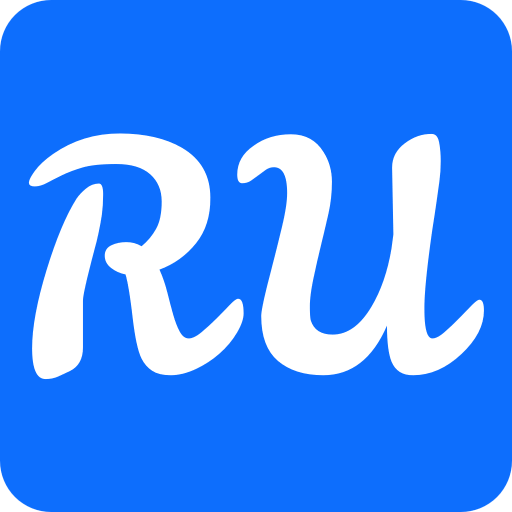
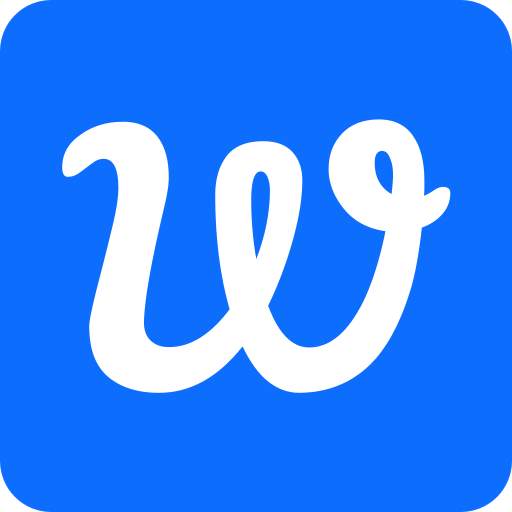
Renaming project. Uploading resources

Changed region(s): [[0.0625, 0.2188, 0.9688, 0.7812]]

diff --git a/web/index.html b/web/index.html
@@ -42,7 +42,7 @@
                     <img src="https://raw.githubusercontent.com/derekShaheen/SkRESTClient/main/web/resources/h512.png" class="img-thumbnail" alt="Logo">
                 </div>
                 <div class="col">
-                    <h5 class="--bs-secondary-color">REST for Unity</h5>
+                    <h5 class="--bs-secondary-color">Unity WickerREST</h5>
                     <h1 class="--bs-primary"></h1>
                 </div>
             </div>
@@ -157,7 +157,7 @@
 
             parameters.forEach(param => {
                 if (param.Name === 'response') {
-                    return; // Skip this iteration, don't create input for 'response'
+                    return; // Skip 'response' parameter
                 }
                 const inputGroup = document.createElement('div');
                 inputGroup.className = 'input-group mb-3';
@@ -170,8 +170,13 @@
                 input.type = 'text';
                 input.className = 'form-control';
                 input.placeholder = param.Name;
-                input.id = 'input-' + param.Name; // Ensure unique ID for each input
-                input.setAttribute('data-parameter', param.Name); // Use parameter name
+                input.id = 'input-' + param.Name;
+                input.setAttribute('data-parameter', param.Name);
+
+                // Set default value if available
+                if (param.DefaultValue !== null) {
+                    input.value = param.DefaultValue;
+                }
 
                 inputGroup.appendChild(inputLabel);
                 inputGroup.appendChild(input);
@@ -185,13 +190,11 @@
             submitButton.onclick = () => {
                 const inputs = modalBody.querySelectorAll('input');
                 const inputValues = Array.from(inputs).reduce((acc, input) => {
-                    // Use the parameter name stored in 'data-parameter' for each input
                     const paramName = input.getAttribute('data-parameter');
                     acc[paramName] = input.value;
                     return acc;
                 }, {});
 
-                // Close modal and send parameters correctly
                 const modalElement = document.getElementById('responseModal');
                 const modalInstance = bootstrap.Modal.getInstance(modalElement);
                 modalInstance.hide();
@@ -200,11 +203,11 @@
             };
             modalBody.appendChild(submitButton);
 
-            // Show modal using Bootstrap 5's JavaScript API
             const modalElement = document.getElementById('responseModal');
             const modalInstance = new bootstrap.Modal(modalElement);
             modalInstance.show();
         }
+
 
         function sendCommandWithParameters(command, parameters) {
             // Construct a query string where keys are parameter names

diff --git a/SkInterface.cs b/SkInterface.cs
@@ -14,8 +14,8 @@ namespace SkInterface
 {
     public static class BuildInfo
     {
-        public const string Name = "SkInterface";
-        public const string Description = "SkInterface";
+        public const string Name = "WickerREST";
+        public const string Description = "WickerREST";
         public const string Author = "Skrip";
         public const string Version = "1.0.0";
         public const string DownloadLink = "";
@@ -155,7 +155,11 @@ namespace SkInterface
                                 var commandsInfo = commandHandlers.Select(handler => new {
                                     Path = handler.Key,
                                     Parameters = handler.Value.Method.GetParameters()
-                                                    .Select(p => new { p.Name, Type = p.ParameterType.Name })
+                                                    .Select(p => new {
+                                                        p.Name,
+                                                        Type = p.ParameterType.Name,
+                                                        DefaultValue = p.HasDefaultValue ? p.DefaultValue?.ToString() : null
+                                                    })
                                                     .ToArray(),
                                     Category = handler.Value.Category
                                 }).ToArray();
@@ -175,6 +179,7 @@ namespace SkInterface
                                 SendResponse(response, @"", 200);
                             }
                         }
+
                         else if (request.Url.AbsolutePath == "/game-variables")
                         {
                             if (gameVariableMethods != null && gameVariableMethods.Count > 0)
@@ -293,7 +298,7 @@ namespace SkInterface
                 }
                 catch (Exception ex)
                 {
-                    LoggerInstance.Error($"Error serving favicon: {ex.Message}");
+                    //
                 }
             }
             else

diff --git a/Commands.cs b/Commands.cs
@@ -45,7 +45,21 @@ namespace SkInterface
         }
 
         [CommandHandler("inputTest", "Main")]
-        public static void InputTestHTTP(HttpListenerResponse response, string input)
+        public static void InputTestHTTP(HttpListenerResponse response, string TestCase, string input = "test", string input2 = "testlols")
+        {
+            // Write output of each var
+            StringBuilder responseContent = new StringBuilder();
+            // Append output of each var to the response content
+            responseContent.AppendLine("TestCase: '" + TestCase + "'");
+            responseContent.AppendLine("input: '" + input + "'");
+            responseContent.AppendLine("input2: '" + input2 + "'");
+
+            // Now send the accumulated response content as one response
+            SkInterface.Instance.LogResponse(response, responseContent.ToString());
+        }
+
+        [CommandHandler("secondInputTest", "Main")]
+        public static void InputTest2HTTP(HttpListenerResponse response, string input)
         {
             SkInterface.Instance.LogResponse(response, "Received:" + " '" + input + "'");
         }

diff --git a/Properties/AssemblyInfo.cs b/Properties/AssemblyInfo.cs
@@ -1,4 +1,4 @@
 using MelonLoader;
 
-[assembly: MelonInfo(typeof(SkInterface.SkInterface), "SkRESTClient", "1.0.0", "Skrip")]
+[assembly: MelonInfo(typeof(SkInterface.SkInterface), "WickerREST", "1.0.0", "Skrip")]
 [assembly: MelonGame("Crate Entertainment", "Farthest Frontier")]
